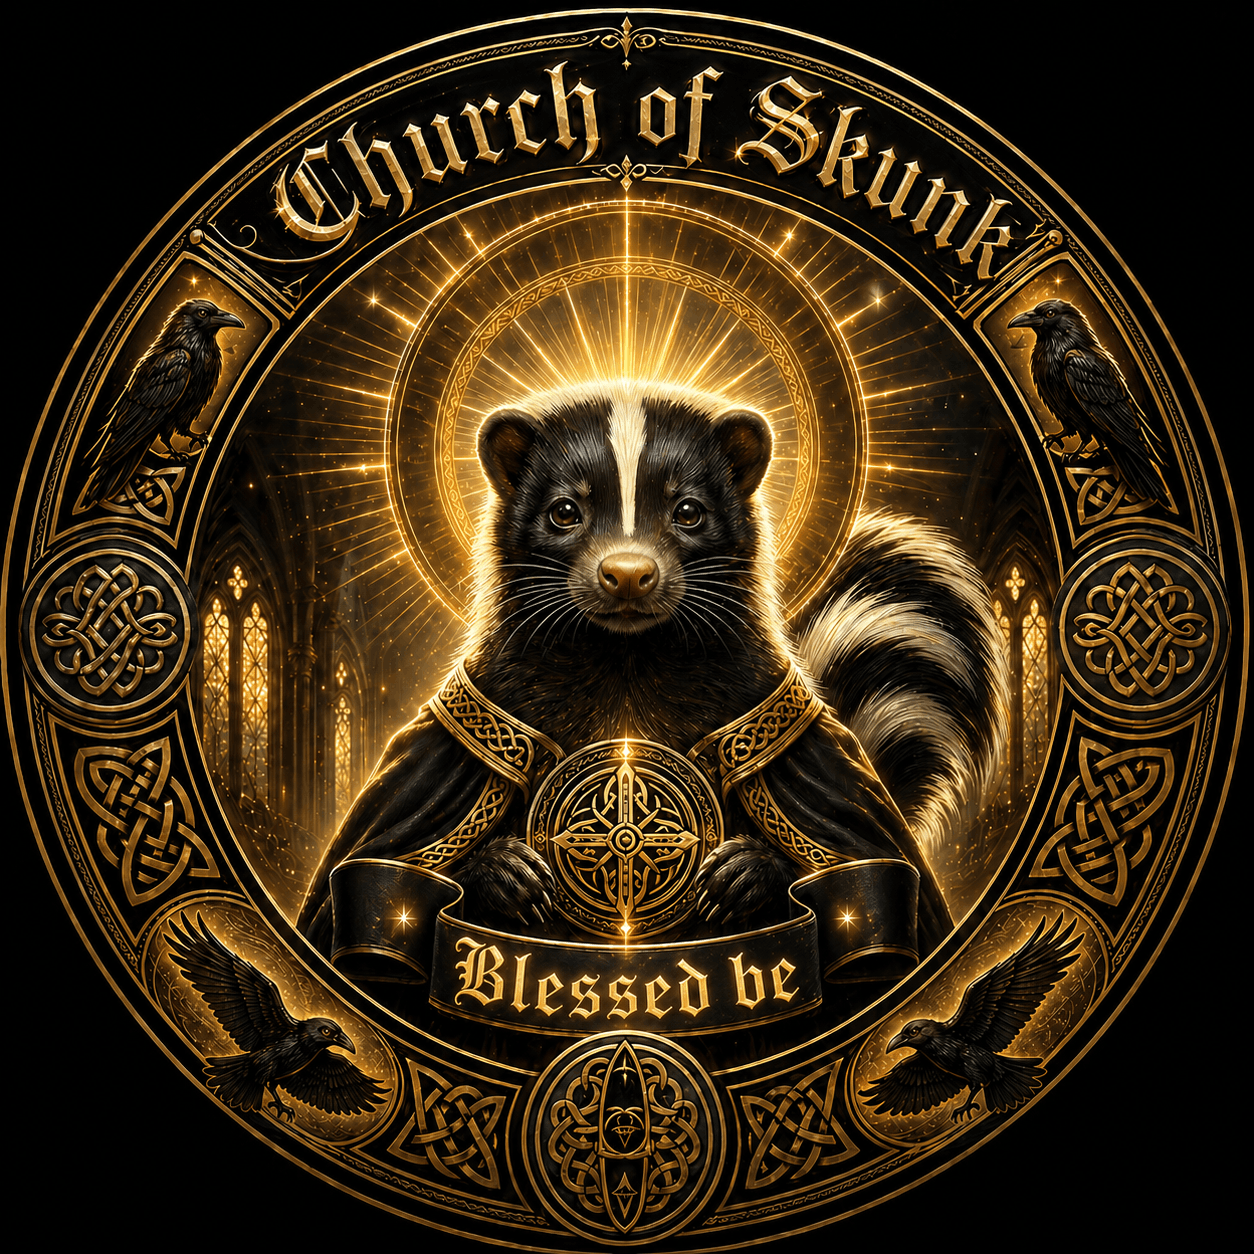
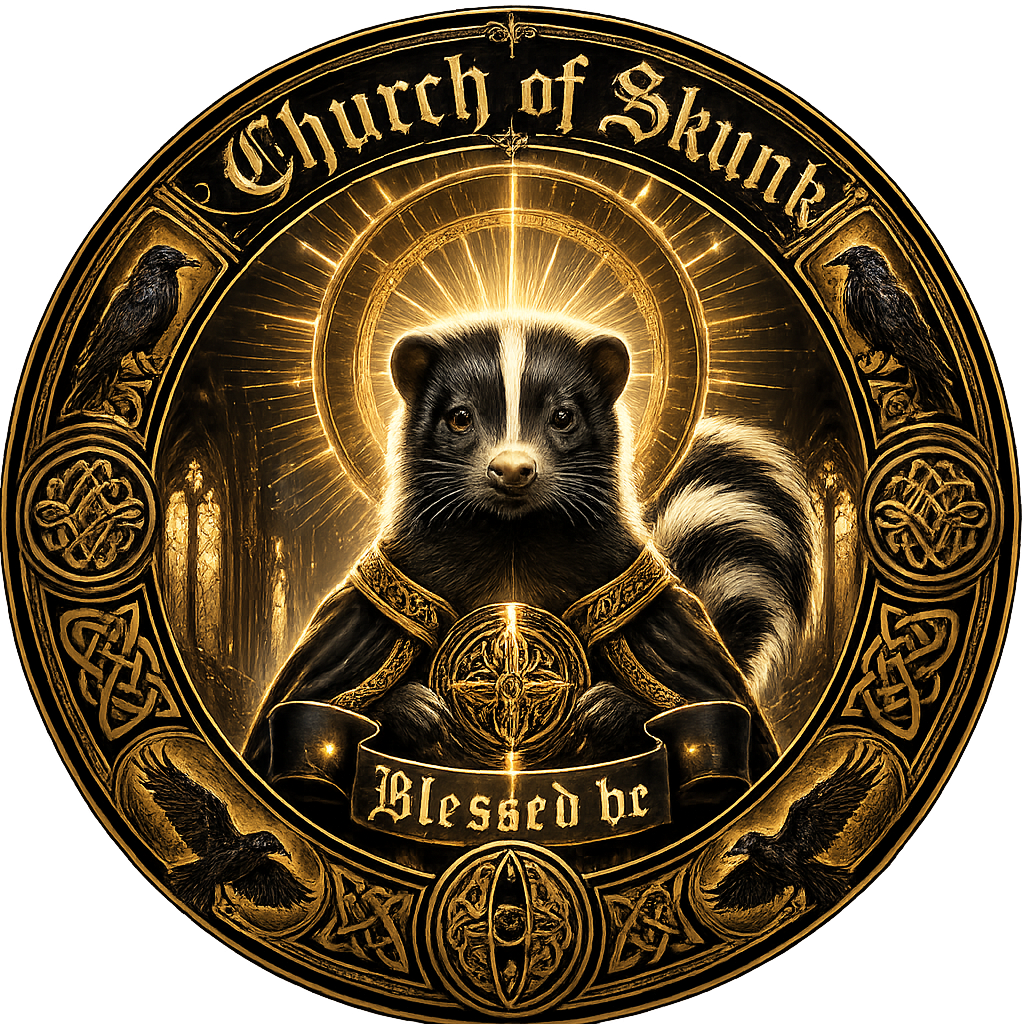
yahgg

diff --git a/ABOUT/practices.html b/ABOUT/practices.html
@@ -99,21 +99,53 @@
 </div>
 
 <div id="slide5" class="mySlides fade">
-<div class="deity-description">
-  <h1 class="alt-section-title"> Holy Herbs </h1>
-    <h2 class="card-title"> Marijuana </h2>
-      <p class="content">
-        Contains the aromatic essence of skunk and can be used in religious ceremonies 
+
+  <h2 class="alt-section-title">Holy Herbs</h2>
+  <ul>
+    <li class="card-item">
+      <article class="card">
+        <div class="card-image-wrapper">
+          <img src="/PHOTOS/BRANDED/icon-cannabis.png" alt="cannabis" class="card-image">
+        </div>
+        <h3 class="card-title">Marijuana</h3>
+        <p class="card-text">Contains the aromatic essence of skunk and can be used in religious ceremonies 
       </p>
-    <h2 class="card-title">Skunk Cabbage</h2>
-      <p>
-        Contains skunks name and it's own pungent aromatic properties  
-      </p> 
-    <h2 class="card-title">Jerusalem artichoke </h2>
-      <p>
-        Contains a type of carbohydrate that human gut bacteria ferments during digestion, resulting in increased flatulence. Skunk worshippers who ingest "fartichokes" may be able to harness this side effect to emulate the aromatic qualities of skunk 
+        <div class="card-image-wrapper">
+          <img src="/PHOTOS/BRANDED/plant-cannabis.png" alt="cannabisplant" width="90%">
+        </div>
+      </article>
+    </li>
+
+    <li class="card-item">
+      <article class="card">
+        <div class="card-image-wrapper">
+          <img src="/PHOTOS/BRANDED/icon-skunkcabbage.png" alt="skunkcabbage" class="card-image">
+        </div>
+        <h3 class="card-title">Skunk Cabbage</h3>
+        <p class="card-text">Contains skunks name and it's own pungent aromatic properties  
       </p>
-  </div>
+        <div class="card-image-wrapper">
+          <img src="/PHOTOS/BRANDED/plant-skunkcabbage.png" alt="skunkcabbageplant" width="90%">
+        </div>
+      </article>
+    </li>
+    
+    <li class="card-item">
+      <article class="card">
+        <div class="card-image-wrapper">
+          <img src="/PHOTOS/BRANDED/icon-jerusalemartichoke.png" alt="jerusalemartichoke" class="card-image">
+        </div>
+        <h3 class="card-title">Jerusalem Artichoke</h3>
+        <p class="card-text">        Contains a type of carbohydrate that human gut bacteria ferments during digestion, resulting in increased flatulence. Skunk worshippers who ingest "fartichokes" may be able to harness this side effect to emulate the aromatic qualities of skunk 
+      </p>
+        <div class="card-image-wrapper">
+          <img src="/PHOTOS/BRANDED/plant-jerusalemartichoke.png" alt="jerusalemartichokeplant" width="90%">
+        </div>
+      </article>
+    </li>
+  
+  </ul>
+
   </div>
 </div>
 </div>

diff --git a/JAVA/membersScript.js b/JAVA/membersScript.js
@@ -69,6 +69,9 @@ loadMembers();
 
 
 async function initQuotes() {
+    const quoteBox = document.getElementById("quoteBox");
+    if (!quoteBox) return;
+    
     const response =
         await fetch('../LISTS/bushisms.json');
     quotes = await response.json();

diff --git a/index.html b/index.html
@@ -26,9 +26,6 @@
     <li style="font-size: 1.3rem;">Our organization, Church of Skunk, is a polytheistic custom religion (aka "cult") dedicated to worshipping Skunk and other deities of your choice. </li>
     </ul>
 
-    <!-- 
-    ok idea for this section, join message in the left corner and skunk fact generator off to the right. Maybe I can come up with a bunch of "church" skunk facts and have the generator alternate between real skunk and church skunk facts???
-  -->
   </div>
   
   <div class="facts">